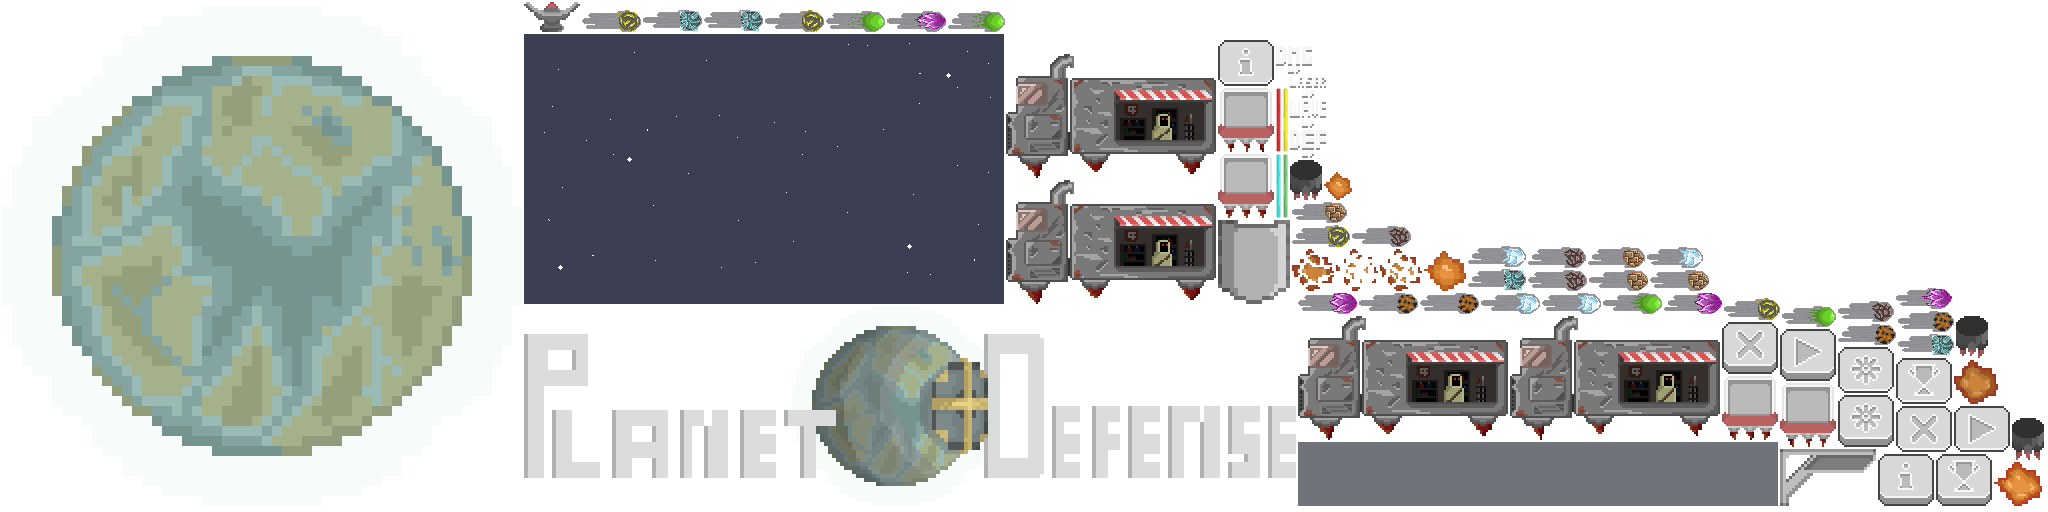
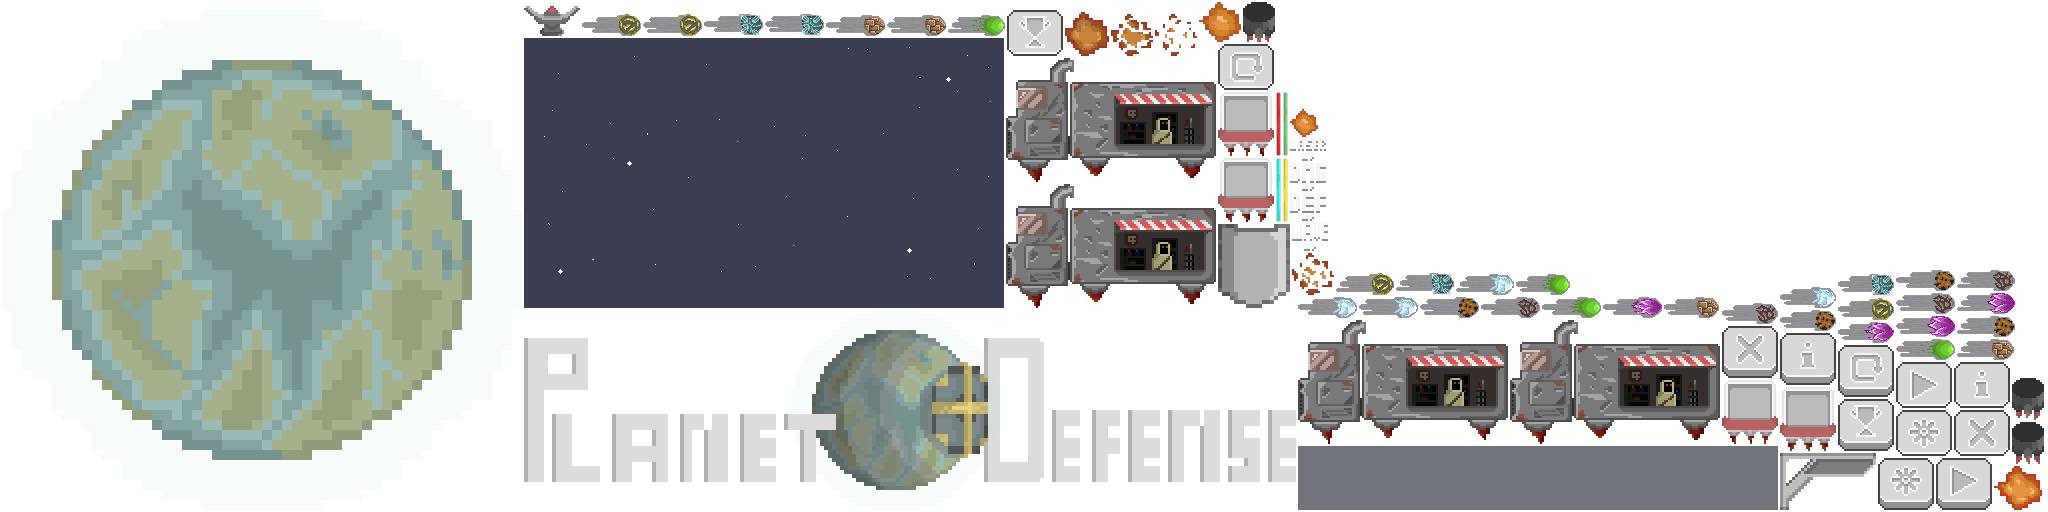
balance

diff --git a/core/src/com/game/planetdefense/Enums/AsteroidType.java b/core/src/com/game/planetdefense/Enums/AsteroidType.java
@@ -14,19 +14,19 @@ public enum AsteroidType {
             case METEORITE:
                 return 2f;
             case ICE_METEORITE:
-                return 10f;
+                return 2f;
             case METAL_METEORITE:
-                return 10f;
+                return 5f;
             case LAVA_METEORITE:
-                return 30f;
+                return 8f;
             case GOLD_METEORITE:
-                return 50f;
+                return 12f;
             case CRYSTAL_METEORITE:
-                return 100f;
+                return 18f;
             case SLIME_METEORITE:
-                return 125f;
+                return 25f;
             case PURPLE_METEORITE:
-                return 125f;
+                return 30f;
             default:
                 return 0f;
         }
@@ -35,21 +35,21 @@ public enum AsteroidType {
     public float getDifficultyPoints(){
         switch(this){
             case METEORITE:
-                return 2f;
+                return 5f;
             case ICE_METEORITE:
-                return 100f;
+                return 10f;
             case METAL_METEORITE:
-                return 100f;
+                return 20f;
             case LAVA_METEORITE:
-                return 150f;
+                return 30f;
             case GOLD_METEORITE:
-                return 200f;
+                return 40f;
             case CRYSTAL_METEORITE:
-                return 300f;
+                return 50f;
             case SLIME_METEORITE:
-                return 300f;
+                return 60f;
             case PURPLE_METEORITE:
-                return 300f;
+                return 70f;
             default:
                 return 0f;
         }
@@ -66,13 +66,13 @@ public enum AsteroidType {
             case LAVA_METEORITE:
                 return 20f;
             case GOLD_METEORITE:
-                return 50f;
+                return 30f;
             case CRYSTAL_METEORITE:
-                return 100f;
+                return 40f;
             case SLIME_METEORITE:
-                return 125f;
+                return 50f;
             case PURPLE_METEORITE:
-                return 125f;
+                return 60f;
             default:
                 return 0f;
         }
@@ -95,7 +95,7 @@ public enum AsteroidType {
             case SLIME_METEORITE:
                 return 250f;
             case PURPLE_METEORITE:
-                return 250f;
+                return 350f;
             default:
                 return 0f;
         }

diff --git a/core/src/com/game/planetdefense/Screens/UpgradeScreen.java b/core/src/com/game/planetdefense/Screens/UpgradeScreen.java
@@ -87,7 +87,7 @@ public class UpgradeScreen implements Screen {
         stage.addActor(exit_game_button);
 
         //set start button
-        ImageButton start_game_button = new ImageButton(new TextureRegionDrawable(planetDefense.assets_manager.getButton_continue()), new TextureRegionDrawable(planetDefense.assets_manager.getButton_continue_hover()));
+        ImageButton start_game_button = new ImageButton(new TextureRegionDrawable(planetDefense.assets_manager.getButton_restart()), new TextureRegionDrawable(planetDefense.assets_manager.getButton_restart_hover()));
         start_game_button.setSize(stage.getWidth() * 0.1f, stage.getWidth() * 0.1f);
         start_game_button.setPosition(stage.getWidth() - start_game_button.getWidth() - (stage.getWidth() * 0.02f), stage.getWidth() * 0.02f);
         start_game_button.getImageCell().size(start_game_button.getWidth(), start_game_button.getHeight());

diff --git a/core/src/com/game/planetdefense/Utils/Managers/AssetsManager.java b/core/src/com/game/planetdefense/Utils/Managers/AssetsManager.java
@@ -186,6 +186,14 @@ public class AssetsManager extends AssetManager {
         return atlas.findRegion("button_exit_hover");
     }
 
+    public TextureRegion getButton_restart(){
+        return atlas.findRegion("button_restart");
+    }
+
+    public TextureRegion getButton_restart_hover(){
+        return atlas.findRegion("button_restart_hover");
+    }
+
     public TextureRegion getEarthTexture(){
         return atlas.findRegion("earth");
     }

diff --git a/core/src/com/game/planetdefense/Utils/StaticUtils.java b/core/src/com/game/planetdefense/Utils/StaticUtils.java
@@ -17,9 +17,9 @@ public class StaticUtils {
 
 
     //WAVE UTILS
-    public static final float DIFFICULTY_POINTS_MULTIPLIER = 1.2f;
+    public static final float DIFFICULTY_POINTS_MULTIPLIER = 1.15f;
     public static final int DIFFICULTY_POINTS = 25;
-    public static final float DIFFICULTY_STATS_MULTIPLIER = 0.001f;
+    public static final float DIFFICULTY_STATS_MULTIPLIER = 0.01f;
     ////////////////
 
 

diff --git a/core/src/com/game/planetdefense/GameStage.java b/core/src/com/game/planetdefense/GameStage.java
@@ -322,6 +322,9 @@ public class GameStage extends Stage {
     }
 
     private void endWave(){
+        if(fail){
+            return;
+        }
         toggleWaveScreen();
         Iterator<Missile> missile_iterator = active_missiles.iterator();
         while (missile_iterator.hasNext()){
